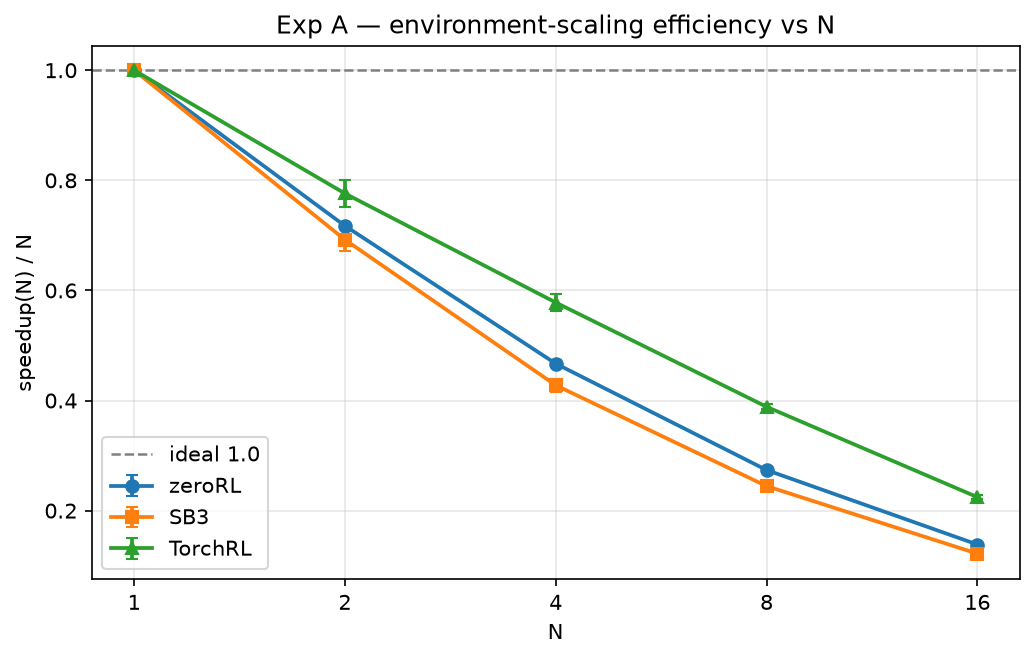
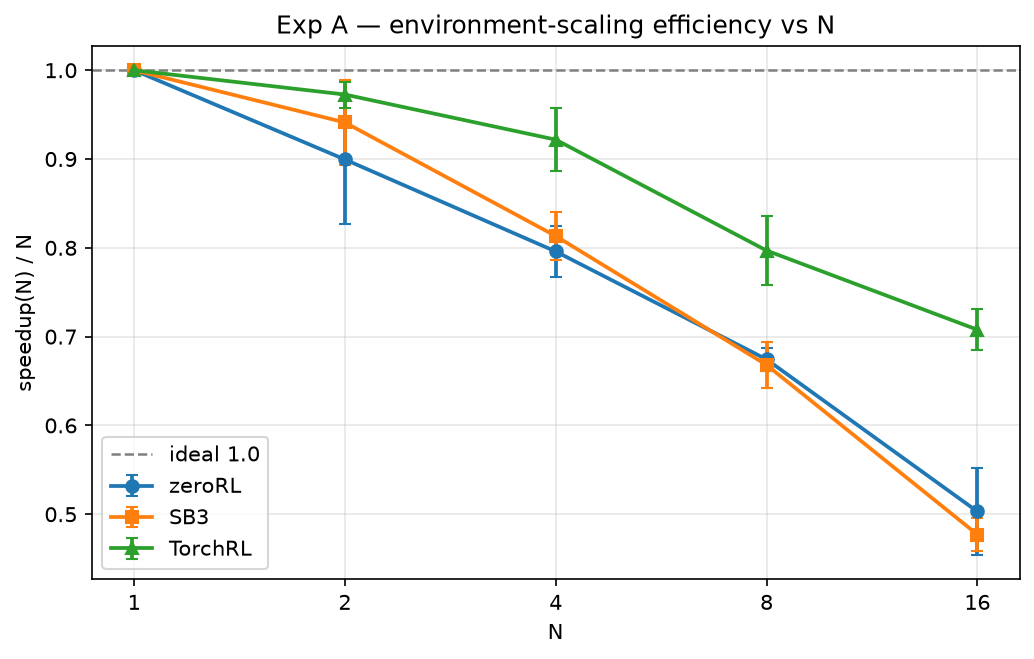
new results benchmarks for gpu

diff --git a/benchmarks/scalability/results/REPORT_GPU.md b/benchmarks/scalability/results/REPORT_GPU.md
@@ -1,0 +1,179 @@
+# Scalability benchmark report
+
+Generated: 2026-11-10T13:09:19.688417+00:00 · rows: 225 · figures in `figures/`
+
+## Environment
+
+| key | value |
+| --- | --- |
+| python | 3.13.14 |
+| platform | Linux-6.8.12-tegra-aarch64-with-glibc2.39 |
+| processor | aarch64 |
+| device | cuda |
+| hostname | gpu1 |
+| torch | 2.13.0+cu130 |
+| torch_num_threads | 14 |
+| cuda_available | True |
+| gymnasium | 1.3.0 |
+| sb3 | 2.9.0 |
+| torchrl | 0.14.1 |
+| tensordict | 0.14.3 |
+| git_sha | c5d014dbdc2fb19f09576fd854161f74fe9b278b |
+
+## Methodology (summary)
+
+- Frameworks: zeroRL (this repo, official `rollout_phase` / `BaseTrain.train()`), Stable-Baselines3, TorchRL — same shared-trunk policy/weights where policies apply (see `policy_reference.py`).
+- Experiments A/B count individual env transitions with a warmup of 16,000 (excluded) + 100,000 measured transitions per run; Experiments C/D train PPO for exactly 262,144 transitions per run.
+- Repetitions: 5 seeds per cell for A/B, 3 for C/D; every reported statistic aggregates **all** ok repetitions (mean ± std), never best-of.
+- Metrics: `throughput = measured / measure_seconds`, `speedup(N) = t(baseline) / t(N)`, `environment_scaling_efficiency(N) = speedup(N) / N`, `worker_parallel_efficiency(W) = speedup(W) / (W / 1)`.
+- Phase timing: `init` = env + policy construction + weight load (+ TorchRL collector/worker spawn); `warmup` (A/B only, excluded); `boundary` (A/B only) = warmup→measure phase reset / collector-worker restart, timed as `boundary_seconds`; `measure` = the official training/collection steady state. Full framework-specific details in `INSPECTION.md`.
+- Device: CPU (`CUDA_VISIBLE_DEVICES=""`); protocol C/D hyperparameters in `ppo_protocols.py` (lr 3e-4 linear-decay, gamma .99, gae_lambda .95, clip .2, entropy .01, value .5, epochs 10, batch 64, grad-clip .5).
+
+## Experiment A — GPU (device=cuda) [gpu]
+
+Rows recorded with device=cuda; every statistic in this section is computed on this side only and never combined with CPU rows.
+
+| framework | N | throughput (trans/s) | mean time (s) | speedup (paired) | env-scaling efficiency (paired) | pairs (n) |
+| --- | --- | --- | --- | --- | --- | --- |
+| zeroRL | 1 | 1,058.9 ± 20.6 | 94.47 | 1.00 | 1.00 | 5 |
+| zeroRL | 2 | 1,904.9 ± 155.9 | 52.80 | 1.80 ± 0.14 | 0.90 ± 0.07 | 5 |
+| zeroRL | 4 | 3,369.4 ± 74.7 | 29.69 | 3.18 ± 0.12 | 0.80 ± 0.03 | 5 |
+| zeroRL | 8 | 5,711.1 ± 46.8 | 17.51 | 5.40 ± 0.10 | 0.67 ± 0.01 | 5 |
+| zeroRL | 16 | 8,518.4 ± 793.2 | 11.83 | 8.05 ± 0.79 | 0.50 ± 0.05 | 5 |
+| SB3 | 1 | 1,268.7 ± 49.8 | 78.92 | 1.00 | 1.00 | 5 |
+| SB3 | 2 | 2,385.1 ± 69.0 | 41.96 | 1.88 ± 0.10 | 0.94 ± 0.05 | 5 |
+| SB3 | 4 | 4,125.1 ± 149.4 | 24.27 | 3.25 ± 0.11 | 0.81 ± 0.03 | 5 |
+| SB3 | 8 | 6,774.8 ± 177.9 | 14.77 | 5.35 ± 0.21 | 0.67 ± 0.03 | 5 |
+| SB3 | 16 | 9,676.4 ± 264.8 | 10.34 | 7.63 ± 0.30 | 0.48 ± 0.02 | 5 |
+| TorchRL | 1 | 560.9 ± 21.9 | 178.51 | 1.00 | 1.00 | 5 |
+| TorchRL | 2 | 1,090.9 ± 39.2 | 91.77 | 1.95 ± 0.03 | 0.97 ± 0.01 | 5 |
+| TorchRL | 4 | 2,065.7 ± 22.6 | 48.41 | 3.69 ± 0.14 | 0.92 ± 0.04 | 5 |
+| TorchRL | 8 | 3,574.1 ± 181.6 | 28.04 | 6.38 ± 0.31 | 0.80 ± 0.04 | 5 |
+| TorchRL | 16 | 6,345.4 ± 72.2 | 15.76 | 11.32 ± 0.37 | 0.71 ± 0.02 | 5 |
+
+![throughput](figures/expA_gpu_gpu_throughput.png)
+
+![speedup](figures/expA_gpu_gpu_speedup.png)
+
+![efficiency](figures/expA_gpu_gpu_efficiency.png)
+
+
+## Experiment B — GPU (device=cuda) [gpu]
+
+Rows recorded with device=cuda; every statistic in this section is computed on this side only and never combined with CPU rows.
+
+| framework | W | throughput (trans/s) | mean time (s) | speedup (paired) | worker parallel efficiency (paired) | pairs (n) |
+| --- | --- | --- | --- | --- | --- | --- |
+| zeroRL | 1 | 5,638.6 ± 120.5 | 17.74 | 1.00 | 1.00 | 5 |
+| SB3 | 1 | 6,638.2 ± 310.9 | 15.09 | 1.00 | 1.00 | 5 |
+| SB3 | 8 | 6,786.9 ± 176.9 | 14.74 | 1.02 ± 0.06 | 0.13 ± 0.01 | 5 |
+| TorchRL | 1 | 3,726.7 ± 30.4 | 26.84 | 1.00 | 1.00 | 5 |
+| TorchRL | 2 | 6,236.8 ± 91.0 | 16.04 | 1.67 ± 0.03 | 0.84 ± 0.01 | 5 |
+| TorchRL | 4 | 6,625.1 ± 90.7 | 15.10 | 1.78 ± 0.03 | 0.44 ± 0.01 | 5 |
+| TorchRL | 8 | 7,311.1 ± 67.7 | 13.68 | 1.96 ± 0.01 | 0.25 ± 0.00 | 5 |
+
+**Unsupported (recorded, not run)**:
+
+- zeroRL W=2: zeroRL has no multi-process environment path (vectorize_env -> SyncVectorEnv only); W>=2 unsupported
+- zeroRL W=2: zeroRL has no multi-process environment path (vectorize_env -> SyncVectorEnv only); W>=2 unsupported
+- zeroRL W=2: zeroRL has no multi-process environment path (vectorize_env -> SyncVectorEnv only); W>=2 unsupported
+- zeroRL W=2: zeroRL has no multi-process environment path (vectorize_env -> SyncVectorEnv only); W>=2 unsupported
+- zeroRL W=2: zeroRL has no multi-process environment path (vectorize_env -> SyncVectorEnv only); W>=2 unsupported
+- zeroRL W=4: zeroRL has no multi-process environment path (vectorize_env -> SyncVectorEnv only); W>=2 unsupported
+- zeroRL W=4: zeroRL has no multi-process environment path (vectorize_env -> SyncVectorEnv only); W>=2 unsupported
+- zeroRL W=4: zeroRL has no multi-process environment path (vectorize_env -> SyncVectorEnv only); W>=2 unsupported
+- zeroRL W=4: zeroRL has no multi-process environment path (vectorize_env -> SyncVectorEnv only); W>=2 unsupported
+- zeroRL W=4: zeroRL has no multi-process environment path (vectorize_env -> SyncVectorEnv only); W>=2 unsupported
+- zeroRL W=8: zeroRL has no multi-process environment path (vectorize_env -> SyncVectorEnv only); W>=2 unsupported
+- zeroRL W=8: zeroRL has no multi-process environment path (vectorize_env -> SyncVectorEnv only); W>=2 unsupported
+- zeroRL W=8: zeroRL has no multi-process environment path (vectorize_env -> SyncVectorEnv only); W>=2 unsupported
+- zeroRL W=8: zeroRL has no multi-process environment path (vectorize_env -> SyncVectorEnv only); W>=2 unsupported
+- zeroRL W=8: zeroRL has no multi-process environment path (vectorize_env -> SyncVectorEnv only); W>=2 unsupported
+- SB3 W=2: SB3 SubprocVecEnv runs exactly one process per env, so only W=1 (DummyVecEnv) and W=8 (SubprocVecEnv) exist; W=2 unsupported
+- SB3 W=2: SB3 SubprocVecEnv runs exactly one process per env, so only W=1 (DummyVecEnv) and W=8 (SubprocVecEnv) exist; W=2 unsupported
+- SB3 W=2: SB3 SubprocVecEnv runs exactly one process per env, so only W=1 (DummyVecEnv) and W=8 (SubprocVecEnv) exist; W=2 unsupported
+- SB3 W=2: SB3 SubprocVecEnv runs exactly one process per env, so only W=1 (DummyVecEnv) and W=8 (SubprocVecEnv) exist; W=2 unsupported
+- SB3 W=2: SB3 SubprocVecEnv runs exactly one process per env, so only W=1 (DummyVecEnv) and W=8 (SubprocVecEnv) exist; W=2 unsupported
+- SB3 W=4: SB3 SubprocVecEnv runs exactly one process per env, so only W=1 (DummyVecEnv) and W=8 (SubprocVecEnv) exist; W=4 unsupported
+- SB3 W=4: SB3 SubprocVecEnv runs exactly one process per env, so only W=1 (DummyVecEnv) and W=8 (SubprocVecEnv) exist; W=4 unsupported
+- SB3 W=4: SB3 SubprocVecEnv runs exactly one process per env, so only W=1 (DummyVecEnv) and W=8 (SubprocVecEnv) exist; W=4 unsupported
+- SB3 W=4: SB3 SubprocVecEnv runs exactly one process per env, so only W=1 (DummyVecEnv) and W=8 (SubprocVecEnv) exist; W=4 unsupported
+- SB3 W=4: SB3 SubprocVecEnv runs exactly one process per env, so only W=1 (DummyVecEnv) and W=8 (SubprocVecEnv) exist; W=4 unsupported
+
+![throughput](figures/expB_gpu_gpu_throughput.png)
+
+![speedup](figures/expB_gpu_gpu_speedup.png)
+
+![efficiency](figures/expB_gpu_gpu_efficiency.png)
+
+
+## Experiment C — GPU (device=cuda) [gpu]
+
+Rows recorded with device=cuda; every statistic in this section is computed on this side only and never combined with CPU rows.
+
+| framework | N | updates | throughput (trans/s) | mean time (s) | mean return (last 100) | reps |
+| --- | --- | --- | --- | --- | --- | --- |
+| zeroRL | 1 | 128 | 685.9 ± 5.1 | 382.2 | -12.0 ± 2.1 | 3 |
+| zeroRL | 2 | 64 | 1,067.9 ± 14.0 | 245.5 | -14.1 ± 1.9 | 3 |
+| zeroRL | 4 | 32 | 1,500.8 ± 29.6 | 174.7 | -17.9 ± 0.4 | 3 |
+| zeroRL | 8 | 16 | 1,948.0 ± 20.2 | 134.6 | -30.1 ± 0.6 | 3 |
+| zeroRL | 16 | 8 | 2,315.0 ± 9.8 | 113.2 | -50.4 ± 1.0 | 3 |
+| SB3 | 1 | 128 | 578.2 ± 3.4 | 453.4 | -8.6 ± 0.4 | 3 |
+| SB3 | 2 | 64 | 741.5 ± 6.6 | 353.6 | -13.3 ± 6.7 | 3 |
+| SB3 | 4 | 32 | 875.4 ± 3.7 | 299.5 | -18.7 ± 5.9 | 3 |
+| SB3 | 8 | 16 | 961.0 ± 3.8 | 272.8 | -21.7 ± 2.4 | 3 |
+| SB3 | 16 | 8 | 1,023.7 ± 8.3 | 256.1 | -39.9 ± 1.0 | 3 |
+| TorchRL | 1 | 128 | 311.5 ± 5.8 | 841.8 | -8.9 ± 0.7 | 3 |
+| TorchRL | 2 | 64 | 421.0 ± 2.6 | 622.7 | -8.1 ± 0.4 | 3 |
+| TorchRL | 4 | 32 | 526.0 ± 4.3 | 498.4 | -11.5 ± 0.6 | 3 |
+| TorchRL | 8 | 16 | 588.7 ± 3.7 | 445.3 | -16.9 ± 0.4 | 3 |
+| TorchRL | 16 | 8 | 629.4 ± 1.6 | 416.5 | -37.5 ± 0.3 | 3 |
+
+![throughput](figures/expC_gpu_gpu_throughput.png)
+
+![returns](figures/expC_gpu_gpu_returns.png)
+
+
+## Experiment D — GPU (device=cuda) [gpu]
+
+Rows recorded with device=cuda; every statistic in this section is computed on this side only and never combined with CPU rows.
+
+| framework | N | updates | throughput (trans/s) | mean time (s) | mean return (last 100) | reps |
+| --- | --- | --- | --- | --- | --- | --- |
+| zeroRL | 1 | 128 | 697.2 ± 11.1 | 376.0 | -12.0 ± 2.1 | 3 |
+| zeroRL | 2 | 128 | 1,050.1 ± 18.0 | 249.7 | -11.8 ± 1.7 | 3 |
+| zeroRL | 4 | 128 | 1,484.7 ± 26.8 | 176.6 | -13.0 ± 0.9 | 3 |
+| zeroRL | 8 | 128 | 1,885.3 ± 15.2 | 139.0 | -12.0 ± 0.6 | 3 |
+| zeroRL | 16 | 128 | 2,257.7 ± 17.6 | 116.1 | -13.4 ± 1.5 | 3 |
+| SB3 | 1 | 128 | 573.5 ± 6.2 | 457.1 | -8.6 ± 0.4 | 3 |
+| SB3 | 2 | 128 | 735.8 ± 3.1 | 356.3 | -8.5 ± 1.1 | 3 |
+| SB3 | 4 | 128 | 862.7 ± 10.0 | 303.9 | -8.2 ± 0.8 | 3 |
+| SB3 | 8 | 128 | 931.5 ± 11.3 | 281.4 | -8.0 ± 0.4 | 3 |
+| SB3 | 16 | 128 | 981.1 ± 6.3 | 267.2 | -8.6 ± 1.0 | 3 |
+| TorchRL | 1 | 128 | 292.9 ± 2.1 | 895.0 | -8.9 ± 0.7 | 3 |
+| TorchRL | 2 | 128 | 397.9 ± 2.3 | 658.8 | -7.7 ± 0.4 | 3 |
+| TorchRL | 4 | 128 | 503.0 ± 7.5 | 521.2 | -7.7 ± 0.6 | 3 |
+| TorchRL | 8 | 128 | 575.7 ± 3.1 | 455.3 | -8.1 ± 0.8 | 3 |
+| TorchRL | 16 | 128 | 618.3 ± 3.7 | 424.0 | -7.4 ± 0.4 | 3 |
+
+![throughput](figures/expD_gpu_gpu_throughput.png)
+
+![returns](figures/expD_gpu_gpu_returns.png)
+
+
+## Findings (computed from the data)
+
+
+## Data integrity
+
+| experiment | ok | failed | unsupported |
+| --- | --- | --- | --- |
+
+All ok rows recorded an exact transition budget.
+
+GPU rows: 225 (device=cuda)
+
+Total rows: 225.
+
+---
+See `README.md` (reproduction), `INSPECTION.md` (framework findings), `results/*.jsonl` (raw data).

diff --git a/benchmarks/scalability/results/REPORT.md b/benchmarks/scalability/results/REPORT.md
@@ -1,6 +1,6 @@
 # Scalability benchmark report
 
-Generated: 2026-11-09T22:45:51.028926+00:00 · rows: 652 · figures in `figures/`
+Generated: 2026-11-10T13:08:40.680191+00:00 · rows: 652 · figures in `figures/`
 
 ## Environment
 
